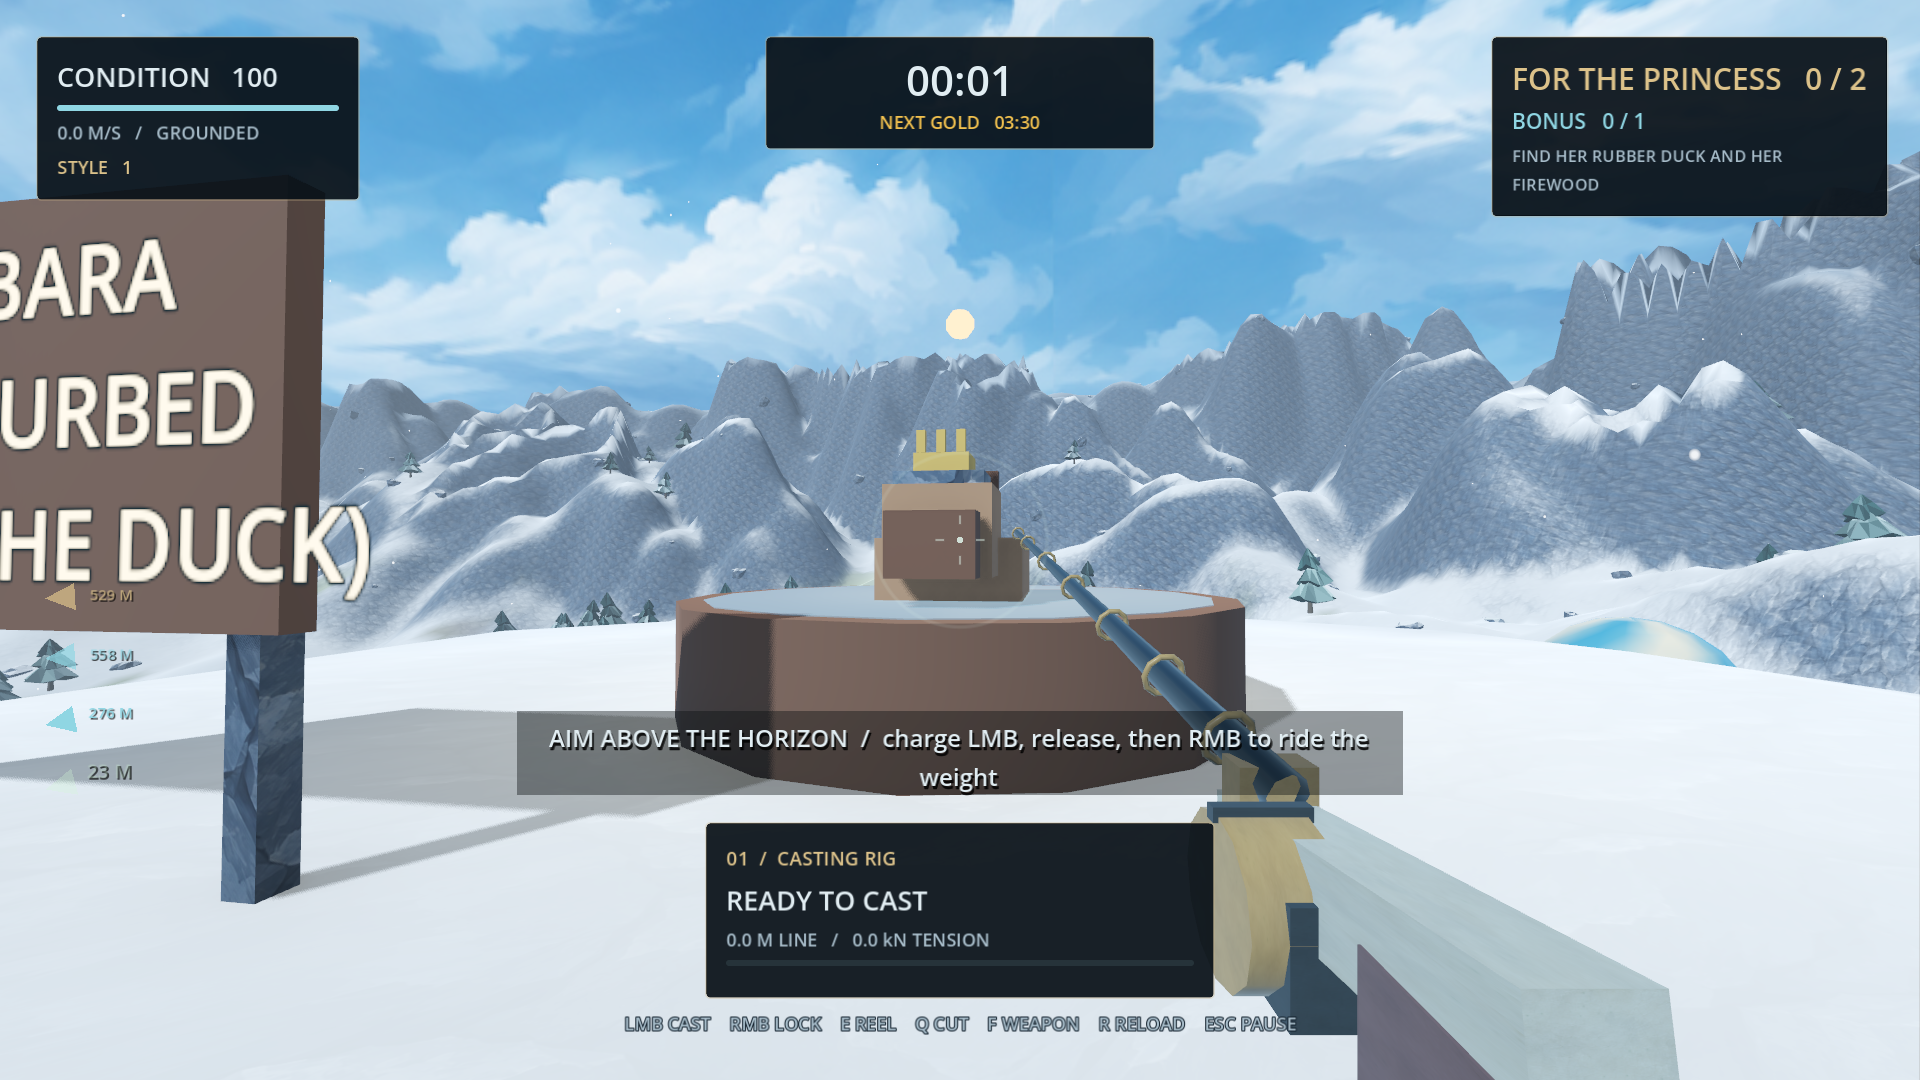
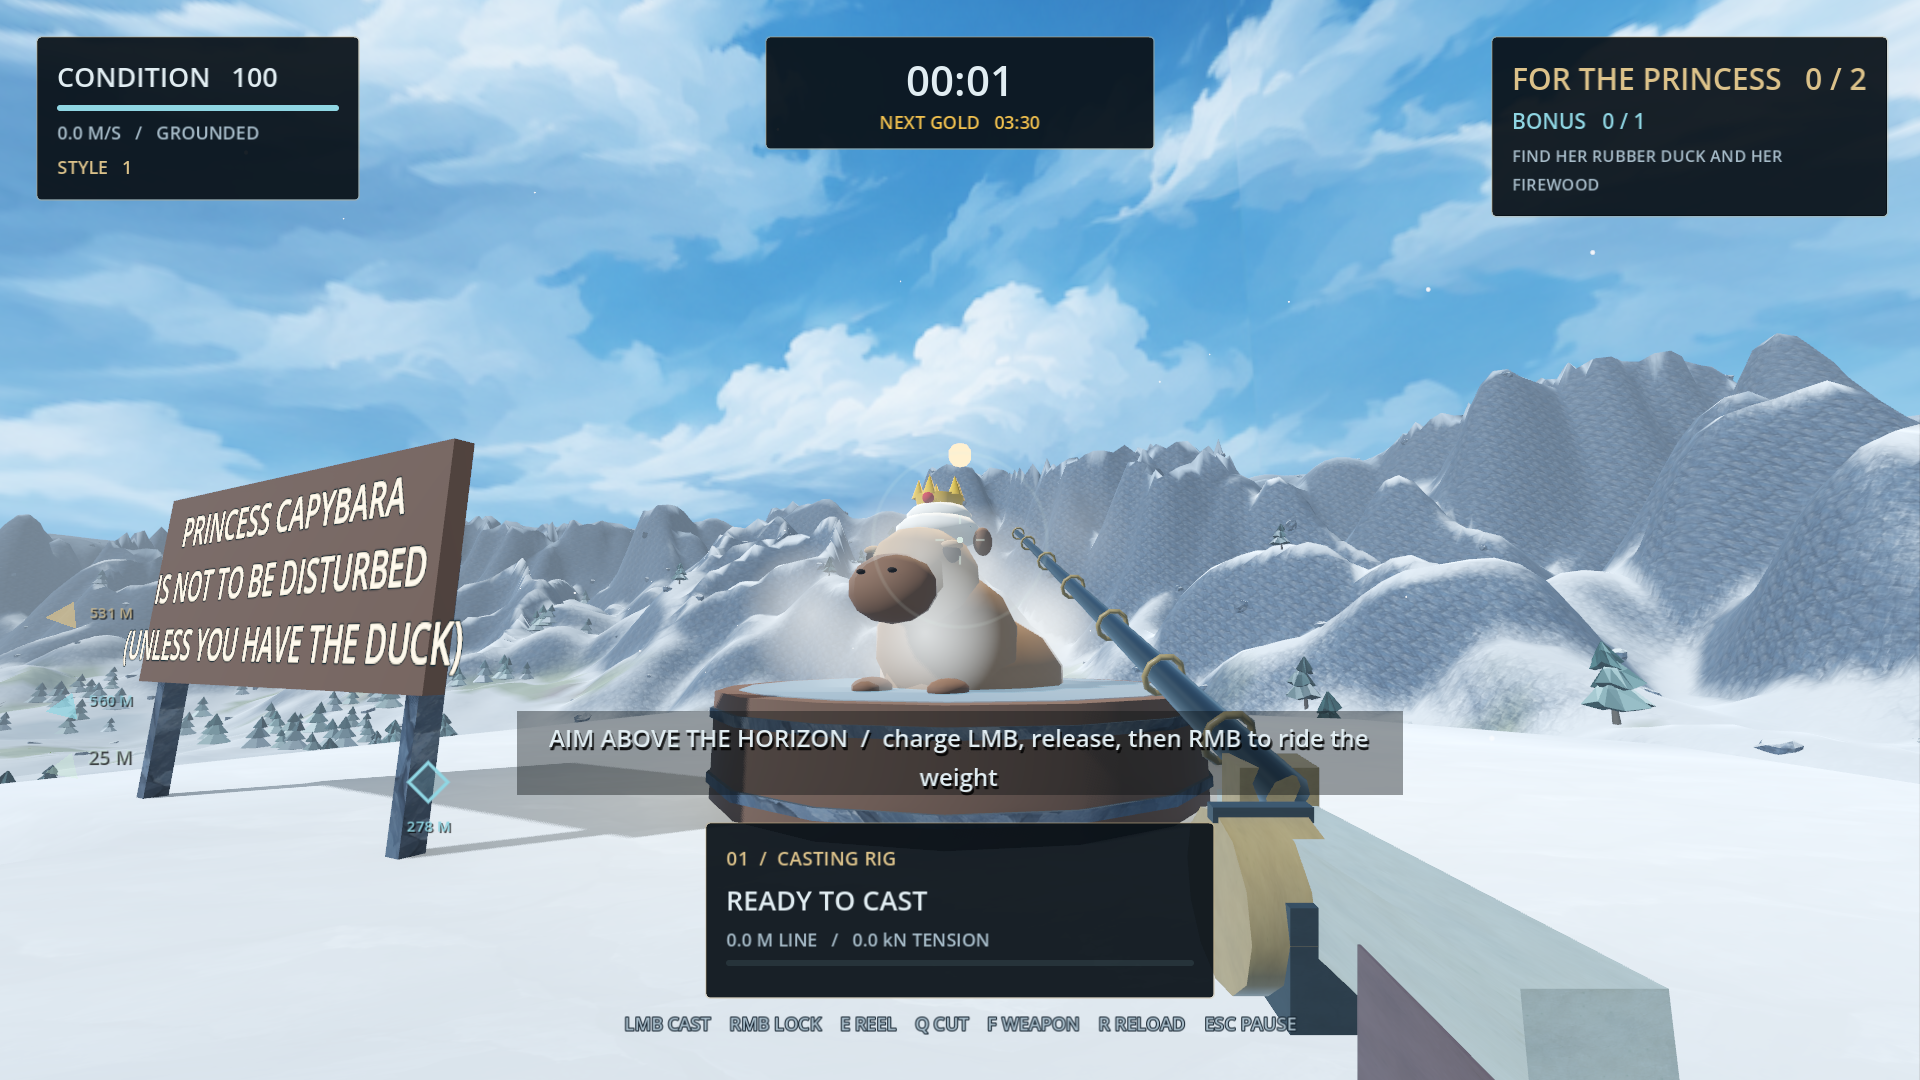
P2: Princess Capybara, modelled; steam and hoops on her tub
The princess was six boxes. She is now a painted low-poly capybara
(DreamProps.princess_mesh()): barrel body, long square-nosed head, sleepy
eyes, round ears, paws on the water, towel turban and a gold crown, shown
at 1.2x with two box colliders so she stays solid. The tub gets iron hoops
and soft steam (off on Low). world_test rays her head; hud_13 re-taken.

diff --git a/docs/TASKS.md b/docs/TASKS.md
@@ -404,6 +404,13 @@ takes a yaw). Pars 250/145 from the route. Needs owner tuning: wave speed, deck 
 material with a primitive box (SurfaceTool keeps only indexed triangles when the two mix): drawn
 nowhere, still solid, in the Floodworks levels and the tutorial since V2. Fixed with `_indexed()`;
 world_test guards it.
+**P2 — Princess Capybara, modelled (done, lead, 2026-11-06).** The princess was six boxes. She is now
+a painted low-poly capybara (`DreamProps.princess_mesh()`): a barrel body low in the water, the long
+square-nosed head, sleepy half-lidded eyes, small round ears, paws on the water, a striped towel
+turban and a gold crown with a red stone, at 1.2x in the tub (`PRINCESS_SCALE`). Two box colliders
+keep her solid (world_test rays her head from above and the front). The tub gains iron hoops and
+soft steam (radial-faded particle quads, Medium and High only). Shared by h01 to h04 and the valley.
+
 ### R9 — Store pages, art and AI disclosure catch up with v2 (done, lead, 2026-11-06)
 **Why:** the store copy, key art and screenshots still showed the v1 game (afternoon sky,
 checkerboard department, "short raids of one to four minutes"), and the AI disclosure, notices and

diff --git a/docs/PROGRESS.md b/docs/PROGRESS.md
@@ -769,3 +769,13 @@ Template:
   objectives panel off the right edge of the screen. The mission line now wraps inside the panel
   (`OBJECTIVE_WIDTH`), and hud_test lays out the longest catalog objective wording at all six sizes
   (12 failures without the fix).
+
+## 2026-11-06: P2 Princess Capybara, modelled
+- Model: Claude Opus 5.5 (lead), owner away ("continue").
+- The princess was six boxes (the R9 store shot showed it). New painted low-poly capybara in
+  `scripts/dream_props.gd` (`princess_mesh()`, vertex coloured, one draw call): barrel body low in
+  the water, long square-nosed head with a darker muzzle, sleepy half-lidded eyes, round ears, paws
+  on the water, a striped towel turban and a gold crown with a red stone. Shown at 1.2x
+  (`PRINCESS_SCALE` in highlands_base) with two box colliders under her, so she stays solid.
+- The tub gets two iron hoops and soft steam (radial-faded billboard particles, off on Low).
+- world_test: rays from above and from the front stop on her head. hud_13 store shot re-taken.
